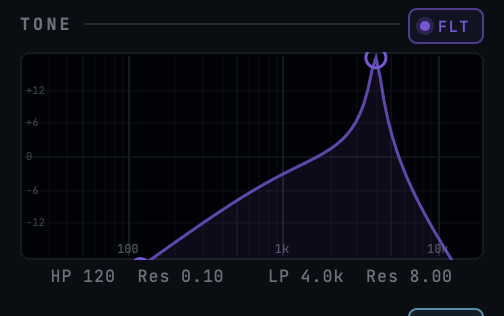
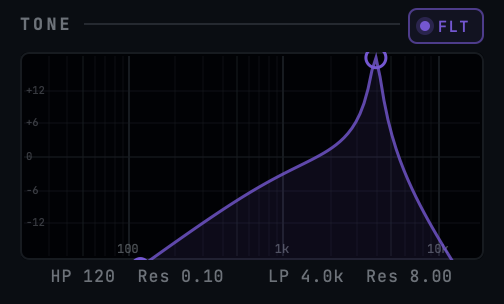
fix(screenshots-r3): item 16 — TONE crop padBottom 6→0 removes AIR bleed
At padBottom=6, the top edge of the MIX/AIR toggle pill below TONE
was visible in the bottom-right of the crop. Dropped padBottom to 0
so the crop cuts flush at the "HP … Res …  LP … Res …" readout line.
Other paddings (top 6, horizontal 10) and the header/graph/readout
heights are unchanged.

Regenerated screenshot_tone_section.png from the rebuilt
screenshot_tool with --mode tone-section --showcase.

diff --git a/Source/PluginEditor.cpp b/Source/PluginEditor.cpp
@@ -3450,9 +3450,11 @@ juce::Rectangle<int> OpenSpatialDelayEditor::getToneSectionBoundsForScreenshot()
     // TONE section spans: header (14px) + 6px pad + filter graph (104px) + 22px readout
     // Round-2 review (#168): padding tightened to 6px top/bottom so the filter
     // graph fills the frame and doesn't look small inside a large crop.
+    // Round-3 review (#168 item 16): padBottom dropped to 0 to cut flush at
+    // the readout — at 6px the top corner of MIX/AIR was bleeding in.
     // Horizontal 10px padding retained for breathing room.
     const int padTop    = 6;
-    const int padBottom = 6;
+    const int padBottom = 0;
     const int padX      = 10;
     int top    = toneHeaderY - padTop;
     int height = padTop + 14 + 6 + 104 + 22 + padBottom;
